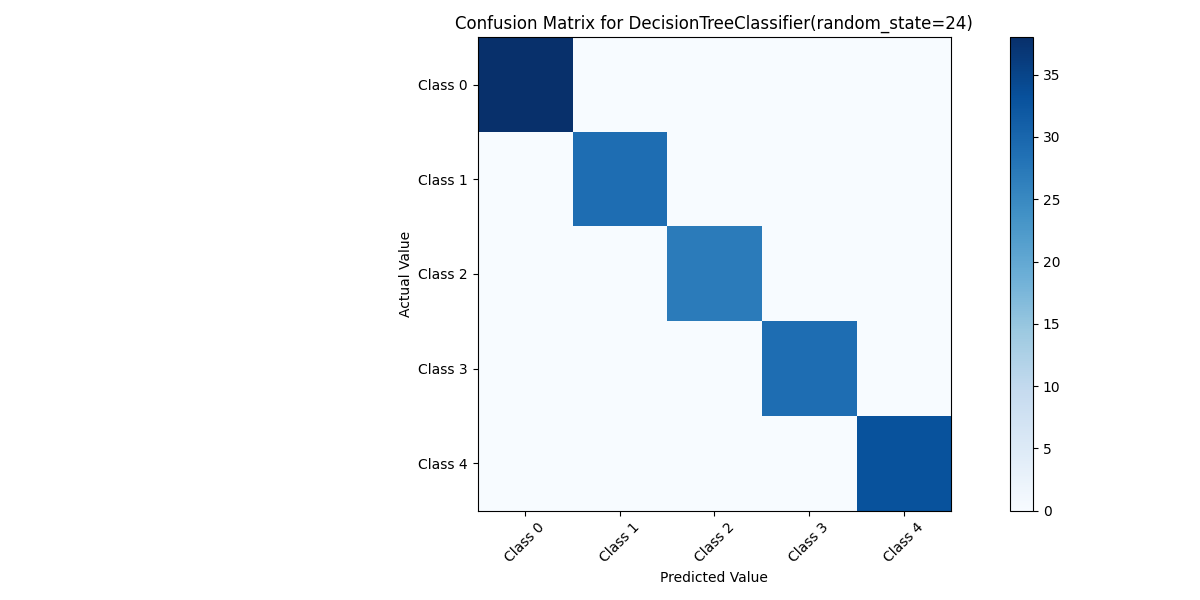
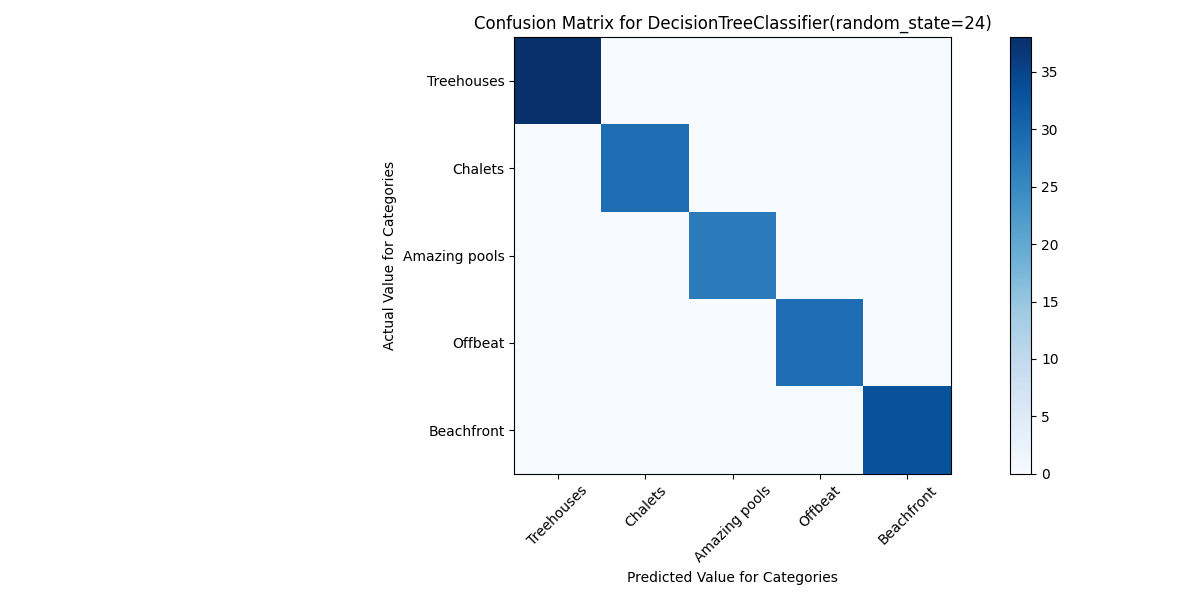
Upadted Readme

diff --git a/classification.py b/classification.py
@@ -360,7 +360,7 @@ def plot_models(models:List, X_val:np.ndarray = None, y_val:np.ndarray = None, s
 
     if len(models) == 1:
         model = models[0]
-        class_names = ["Class 0", "Class 1", "Class 2", "Class 3", "Class 4"]
+        class_names = ['Treehouses','Chalets','Amazing pools','Offbeat','Beachfront']
 
         plt.figure(figsize=(12, 6))
 
@@ -375,8 +375,8 @@ def plot_models(models:List, X_val:np.ndarray = None, y_val:np.ndarray = None, s
         tick_marks = np.arange(len(class_names))
         plt.xticks(tick_marks, class_names, rotation=45)
         plt.yticks(tick_marks, class_names)
-        plt.xlabel("Predicted Value")
-        plt.ylabel("Actual Value")
+        plt.xlabel("Predicted Value for Categories")
+        plt.ylabel("Actual Value for Categories")
 
         plt.tight_layout()
 
@@ -404,6 +404,7 @@ def main():
     """
     # Load and preprocess data
     df = pd.read_csv('airbnb-property-listing/tabular_data/clean_listing.csv')
+    print(df['Category'].unique())
     X, y = load_airbnb(df, label='Category')
     X_train, y_train, X_test, y_test, X_val, y_val = split_X_y(X, y)
     

diff --git a/README.md b/README.md
@@ -130,6 +130,9 @@ The `modelling.py` module focuses on building and evaluating regression models t
 
 8. **Plotting Data:** The `plot_all_models` function plots either a comparison of different models using scatterplots or the total performance if a single model is provided.
 
+9. **Running all the functions:** : the `main` function runs the functions in the correct order.
+
+
 #### Model Selection and Metrics
 
 In the file `modelling.py`, we evaluated several regression models:
